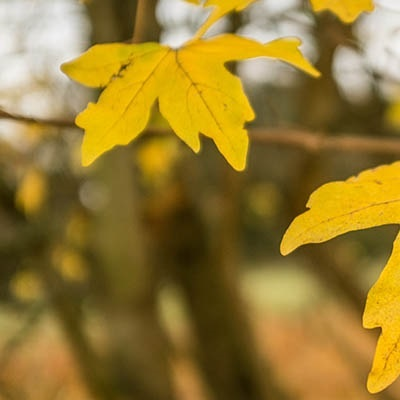
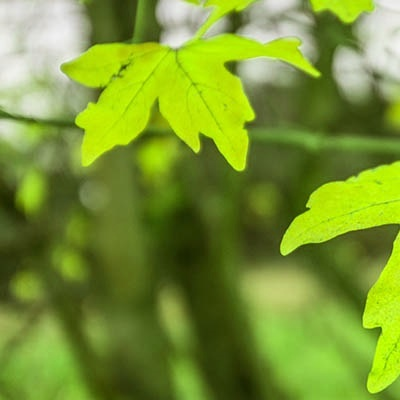
somewhat works

diff --git a/SOM-BIAI_project/main.cpp b/SOM-BIAI_project/main.cpp
@@ -96,10 +96,11 @@ int main(void)
                 nImTemp.saveToFile("test.jpg");
                 
                 SOM::SOMNetwork network =
-                    SOM::SOMNetwork(512,
-                                    4*4 ,
+                    SOM::SOMNetwork(image.getBGRImageHandle().cols *
+                                        image.getBGRImageHandle().rows/(8*8),
+                                    8*8 ,
                                     //100,
-                                    0.01, 12);
+                                    0.01, 1, image.getPixelArray());
 
 
                 std::vector<SOM::Subframe> resultTrSetTemp;
@@ -127,20 +128,20 @@ int main(void)
                     tempPixel.setBlueChroma(dist(engine));
                     tmppixelArraytrset.push_back(tempPixel);
                 }
-                 std::vector<std::vector<SOM::Subframe>> frames2D =
-                    convertPixelArrayToSubframes(tmppixelArraytrset, 512, 512,
-                                                 4,
-                                                 4);
-                for (int i = 0; i < frames2D.size(); i++) {
-                    for (int j = 0; j < frames2D[i].size(); j++) {
-                        trainingSet.push_back(frames2D[i][j]);
-                    }
-                }
+                // std::vector<std::vector<SOM::Subframe>> frames2D =
+                 //   convertPixelArrayToSubframes(tmppixelArraytrset, 512, 512,
+                //                                 4,
+               //                                  4);
+               // for (int i = 0; i < frames2D.size(); i++) {
+               //     for (int j = 0; j < frames2D[i].size(); j++) {
+                        //trainingSet.push_back(frames2D[i][j]);
+             //       }
+            //    }
 
                 std::vector<std::vector<SOM::Subframe>> framesList =
                     convertPixelArrayToSubframes(
                         image.getPixelArray(), image.getYCbCrImageHandle().cols,
-                        image.getYCbCrImageHandle().rows, 4, 4);
+                        image.getYCbCrImageHandle().rows, 8, 8);
                 for (int i = 0; i < framesList.size(); i++) {
                     for (int j = 0; j < framesList[i].size(); j++) {
                         trainingSet.push_back(framesList[i][j]);
@@ -149,7 +150,7 @@ int main(void)
                // std::vector<SOM::Subframe> trainingSet =
                  //   generateRandomSubframes();
                 //    resultTrSetTemp;
-                for (int i = 0; i < 3; i++) {
+                for (int i = 0; i < 1; i++) {
                     for (auto &frame : trainingSet) {
                         network.processFrame(frame);
                     }
@@ -167,8 +168,8 @@ int main(void)
                     }
                 }
                 SOM::SOMNetworkDecoder decoder(
-                    network, encodedFramesArrayFlattened, encodedFrames.size(),
-                    encodedFrames[0].size());
+                    network, encodedFrames, encodedFrames.size(),
+                    encodedFrames[0].size(), 8, 8);
                 std::vector<SOM::Pixel> resultImagePixelArray =
                     decoder.decode();
                 SOM::Image newImage;

diff --git a/SOM-BIAI_project/src/SOMNetwork.cpp b/SOM-BIAI_project/src/SOMNetwork.cpp
@@ -8,25 +8,46 @@ SOMNetwork::SOMNetwork() {
 }
 
 SOMNetwork::SOMNetwork(int neuronsCount, int weightsCount, double step,
-                       int minWinnerCounter) {
+                       int minWinnerCounter, std::vector<Pixel> randomPixels) {
     this->trainingStep = step;
     this->minWinnerCounter = minWinnerCounter;
+
+    std::vector<double> lumaPixelSubArray;
+    std::vector<double> redChromaPixelSubArray;
+    std::vector<double> blueChromaPixelSubArray;
+
+    for (int i = 0; i < neuronsCount * weightsCount; i++) {
+        lumaPixelSubArray.push_back(randomPixels[i].getBrightness());
+        redChromaPixelSubArray.push_back(randomPixels[i].getRedChroma());
+        blueChromaPixelSubArray.push_back(randomPixels[i].getBlueChroma());
+    }
 
     for (int i = 0; i < neuronsCount; i++) {
         std::vector<double> weights =
             normalizeVector(generateWeights<int>(weightsCount));
+        std::vector<double> lumaSubPixelWeights;
+        std::vector<double> redChromaSubPixelWeights;
+        std::vector<double> blueChromaSubPixelWeights;
+        for (int j = 0; j < weightsCount; j++) {
+            lumaSubPixelWeights.push_back(
+                lumaPixelSubArray[i * weightsCount + j]);
+            redChromaSubPixelWeights.push_back(
+                redChromaPixelSubArray[i * weightsCount + j]);
+            blueChromaSubPixelWeights.push_back(
+                blueChromaPixelSubArray[i * weightsCount + j]);
+        }
         Neuron neuron(weights);
         this->neuronList.push_back(neuron);
-        std::vector<double> weightsLuma =
-            normalizeVector(generateWeights<int>(weightsCount));
+        std::vector<double> weightsLuma = normalizeVector(lumaSubPixelWeights);
+            //normalizeVector(generateWeights<int>(weightsCount));
         Neuron neuronLuma(weightsLuma);
         this->lumaNeuronList.push_back(neuronLuma);
-        std::vector<double> weightsRedChroma =
-            normalizeVector(generateWeights<int>(weightsCount));
+        std::vector<double> weightsRedChroma = normalizeVector(redChromaSubPixelWeights);
+            //normalizeVector(generateWeights<int>(weightsCount));
         Neuron neuronRedChroma(weightsRedChroma);
         this->redChromaNeuronList.push_back(neuronRedChroma);
-        std::vector<double> weightsBlueChroma =
-            normalizeVector(generateWeights<int>(weightsCount));
+        std::vector<double> weightsBlueChroma = normalizeVector(blueChromaSubPixelWeights);
+            //normalizeVector(generateWeights<int>(weightsCount));
         Neuron neuronBlueChroma(weightsBlueChroma);
         this->blueChromaNeuronList.push_back(neuronBlueChroma);
     }

diff --git a/SOM-BIAI_project/src/SOMNetworkDecoder.cpp b/SOM-BIAI_project/src/SOMNetworkDecoder.cpp
@@ -3,20 +3,23 @@
 using namespace SOM;
 
 SOM::SOMNetworkDecoder::SOMNetworkDecoder(
-    SOMNetwork network, std::vector<SubframeCompressed> encodedFrames,
-    int width, int height) {
+    SOMNetwork network, std::vector<std::vector<SubframeCompressed>> encodedFrames,
+    int width, int height, int frameWidth, int frameHeight) {
     this->width = width;
     this->height = height;
     this->encodedFrames = encodedFrames;
     this->network = network;
+    this->frameHeight = frameHeight;
+    this->frameWidth = frameWidth;
 }
 
 std::vector<Pixel> SOMNetworkDecoder::decode() {
-    std::vector<Pixel> result;
+    std::vector<Pixel> result(width*height * frameWidth * frameHeight);
     int posX = 0, posY = 0;
     for (int i = 0; i < height; i++) {
+        posY = 0;
         for (int j = 0; j < width; j++) {
-            SubframeCompressed temp = this->encodedFrames[(i * width + j)];
+            SubframeCompressed temp = this->encodedFrames[i][j];
             int lumaWinnerNeuronIndex = temp.getLumaWinnerIndex();
             int redChromaWinnerIndex = temp.getRedChromaWinnerIndex();
             int blueChromaWinnerIndex = temp.getBlueChromaWinnerIndex();
@@ -32,12 +35,26 @@ std::vector<Pixel> SOMNetworkDecoder::decode() {
                 denormalizeVector(redChromaPixels, temp.getRedChromaValue());
             std::vector<int> denormalizedBlueChromaPixels =
                 denormalizeVector(blueChromaPixels, temp.getBlueChromaValue());
-            for (int k = 0; k < lumaPixels.size(); k++) {
+            /* for (int k = 0; k < lumaPixels.size(); k++) {
                 Pixel tempPixel = Pixel(denormalizedLumaPixels[k], denormalizedRedChromaPixels[k],
                                         denormalizedBlueChromaPixels[k]);
+
                 result.push_back(tempPixel);
+            }*/
+            int dataPixelIndex = 0;
+            for (int pxPosX = posX; pxPosX < posX + frameHeight; pxPosX++) {
+                //int dataPixelIndex = 0;
+                for (int pxPosY = posY; pxPosY < posY + frameWidth; pxPosY++) {
+                    Pixel tempPixel = Pixel(denormalizedLumaPixels[dataPixelIndex],
+                                            denormalizedRedChromaPixels[dataPixelIndex],
+                                            denormalizedBlueChromaPixels[dataPixelIndex]);
+                    result[(pxPosX * (posY + frameWidth)) + pxPosY] = tempPixel;
+                    dataPixelIndex++;
+                }
             }
+            posY += frameWidth;
         }
+        posX += frameHeight;
     }
     return result;
 }

diff --git a/SOM-BIAI_project/src/Pixel.cpp b/SOM-BIAI_project/src/Pixel.cpp
@@ -1,6 +1,6 @@
 #include "../include/Pixel.h"
 
-SOM::Pixel::Pixel(int brightness, int blue_chroma, int red_chroma) {
+SOM::Pixel::Pixel(double brightness, double blue_chroma, double red_chroma) {
     this->brightness = brightness;
     this->blue_chroma = blue_chroma;
     this->red_chroma = red_chroma;
@@ -12,20 +12,20 @@ SOM::Pixel::Pixel() {
     this->red_chroma = 0;
 }
 
-void SOM::Pixel::setBrightness(int brightness) {
+void SOM::Pixel::setBrightness(double brightness) {
     this->brightness = brightness;
 }
 
-int SOM::Pixel::getBrightness() { return this->brightness; }
+double SOM::Pixel::getBrightness() { return this->brightness; }
 
-void SOM::Pixel::setBlueChroma(int blue_chroma) {
+void SOM::Pixel::setBlueChroma(double blue_chroma) {
     this->blue_chroma = blue_chroma;
 }
 
-int SOM::Pixel::getBlueChroma() { return this->blue_chroma; }
+double SOM::Pixel::getBlueChroma() { return this->blue_chroma; }
 
-void SOM::Pixel::setRedChroma(int red_chroma) {
+void SOM::Pixel::setRedChroma(double red_chroma) {
     this->red_chroma = red_chroma;
 }
 
-int SOM::Pixel::getRedChroma() { return this->red_chroma; }
+double SOM::Pixel::getRedChroma() { return this->red_chroma; }

diff --git a/SOM-BIAI_project/include/Pixel.h b/SOM-BIAI_project/include/Pixel.h
@@ -4,25 +4,25 @@
 namespace SOM {
 class Pixel {
    private:
-    int brightness;
-    int blue_chroma;
-    int red_chroma;
+    double brightness;
+    double blue_chroma;
+    double red_chroma;
 
    public:
-    Pixel(int brightness, int blue_chroma, int red_chroma);
+    Pixel(double brightness, double blue_chroma, double red_chroma);
 
     Pixel();
 
-    void setBrightness(int brightness);
+    void setBrightness(double brightness);
 
-    int getBrightness();
+    double getBrightness();
 
-    void setBlueChroma(int blue_chroma);
+    void setBlueChroma(double blue_chroma);
 
-    int getBlueChroma();
+    double getBlueChroma();
 
-    void setRedChroma(int red_chroma);
+    void setRedChroma(double red_chroma);
 
-    int getRedChroma();
+    double getRedChroma();
 };
 }  // namespace SOM

diff --git a/SOM-BIAI_project/include/SOMNetworkDecoder.h b/SOM-BIAI_project/include/SOMNetworkDecoder.h
@@ -11,13 +11,15 @@ class SOMNetworkDecoder {
     SOMNetwork network;
     int width;
     int height;
+    int frameWidth;
+    int frameHeight;
     std::vector<Pixel> pixelArray;
-    std::vector<SubframeCompressed> encodedFrames;
+    std::vector<std::vector<SubframeCompressed>> encodedFrames;
 
    public:
     SOMNetworkDecoder(SOMNetwork network,
-                      std::vector<SubframeCompressed> encodedFrames, int width,
-                      int height);
+                      std::vector<std::vector<SubframeCompressed>> encodedFrames, int width,
+                      int height, int frameWidth, int frameHeight);
     std::vector<Pixel> decode();
     void recodePixels(std::vector<int> subData, colorPart colorChoice,
                       int startPosX, int startPosY);

diff --git a/SOM-BIAI_project/src/Image.cpp b/SOM-BIAI_project/src/Image.cpp
@@ -86,8 +86,8 @@ void SOM::Image::transformImageToPixelArray() {
         dataP = YCbCrImageHandle.ptr<unsigned char>(i);
         for (int j = 0; j < width - 2; j+=3) {
             int lumaValue = dataP[j];
-            int redChromaValue = dataP[j + 1];
-            int blueChromaValue = dataP[j + 2];
+            int redChromaValue = dataP[j + 2];
+            int blueChromaValue = dataP[j + 1];
             Pixel temp;
             temp.setBrightness(lumaValue);
             temp.setRedChroma(redChromaValue);

diff --git a/SOM-BIAI_project/include/SOMNetwork.h b/SOM-BIAI_project/include/SOMNetwork.h
@@ -17,7 +17,7 @@ class SOMNetwork {
    public:
     SOMNetwork();
     SOMNetwork(int neuronsCount, int weightsCount, double step,
-               int minWinnerCounter);
+               int minWinnerCounter, std::vector<Pixel> randomPixels);
     void processFrame(Subframe frame);
     int findWinnerNeuron(std::vector<Pixel> pixelArray, colorPart colorChoice);
     void evaluateNeuronWeights(int neuronIndex, std::vector<Pixel> pixelArray, colorPart colorChoice);

diff --git a/SOM-BIAI_project/src/Neuron.cpp b/SOM-BIAI_project/src/Neuron.cpp
@@ -30,3 +30,5 @@ void Neuron::weightsEvaluation(std::vector<double> input, double step) {
 std::vector<double> Neuron::getWeights() { return this->weights; }
 
 unsigned long Neuron::getWinnerCount() { return this->winnerCount; }
+
+void Neuron::setWeights(std::vector<double> weights) { this->weights = weights; }

diff --git a/SOM-BIAI_project/include/Neuron.h b/SOM-BIAI_project/include/Neuron.h
@@ -14,5 +14,6 @@ class Neuron {
     void weightsEvaluation(std::vector<double> input, double step);
     std::vector<double> getWeights();
     unsigned long getWinnerCount();
+    void setWeights(std::vector<double> weights);
 };
 }

diff --git a/SOM-BIAI_project/src/SOMNetworkEncoder.cpp b/SOM-BIAI_project/src/SOMNetworkEncoder.cpp
@@ -27,5 +27,5 @@ std::vector<std::vector<SubframeCompressed>> SOMNetworkEncoder::encode(
             encodedFrames[i][j] = temp;
         }
     }
-    return encodedFrames;
+      return encodedFrames;
 }
